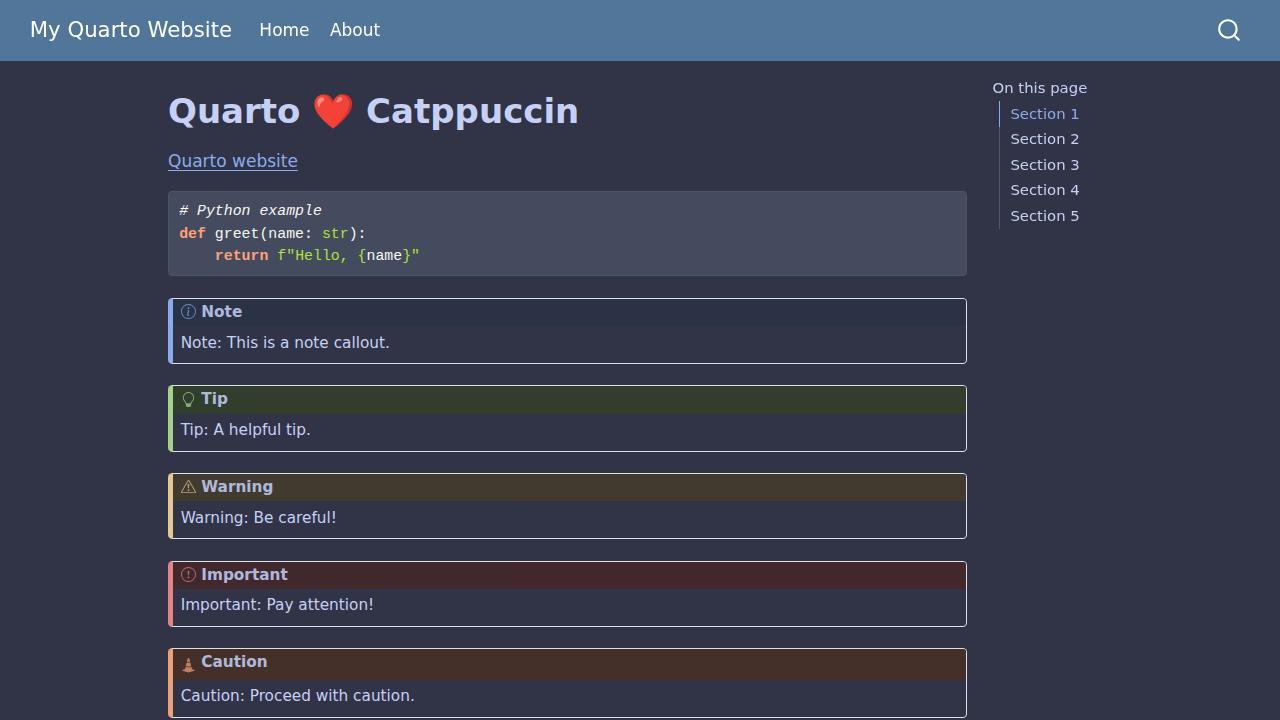
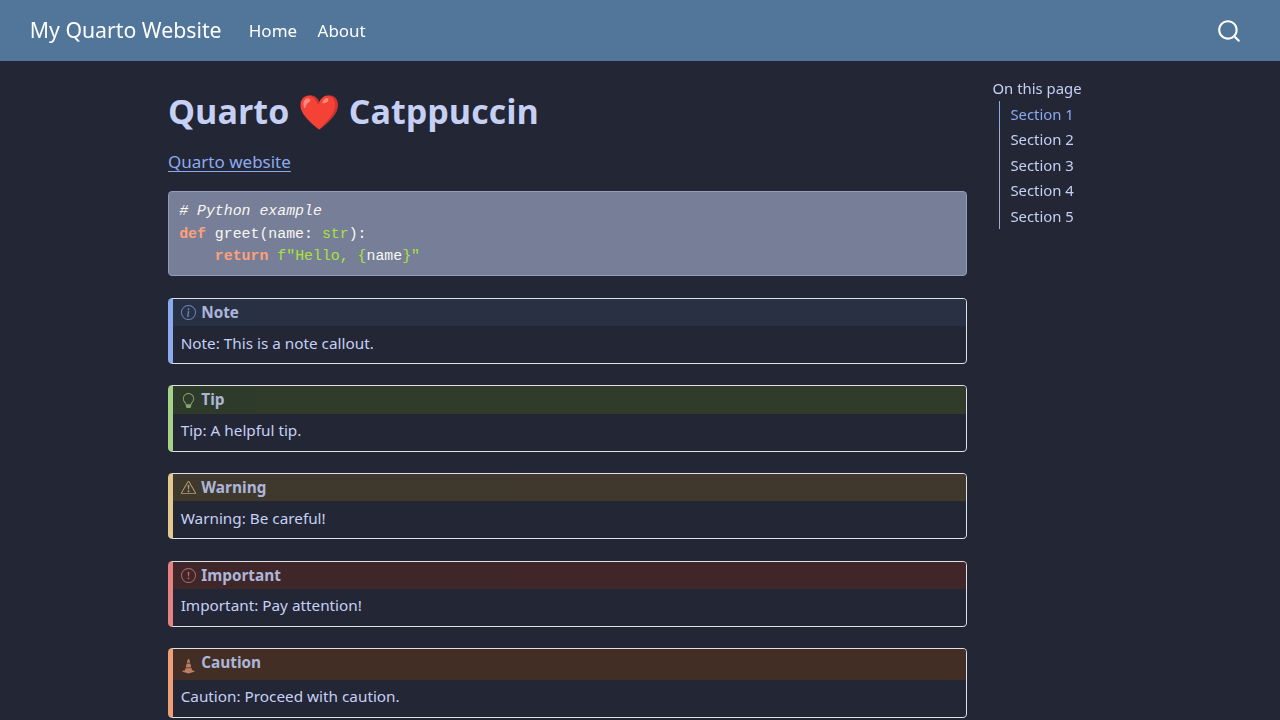
correct greyscale

diff --git a/themes/catppuccin-frappe.scss b/themes/catppuccin-frappe.scss
@@ -2,25 +2,28 @@
 /*-- scss:defaults --*/
 
 /* Quarto base colors: https://quarto.org/docs/output-formats/html-themes.html#colors */
-$body-bg:    #303446;
+
+$body-bg:    #232634;
 $body-color: #c6d0f5;
 $link-color: #8caaee;
 $input-bg:   #51576d;
 $popover-bg: #51576d;
 
 /* Bootstrap gray scale https://github.com/twbs/bootstrap/blob/c82919e8970c7ebebb87ded191b815c76737cd04/scss/_variables.scss#L10-L18 */
-$gray-100: #414559;
-$gray-200: #51576d;
-$gray-300: #626880;
-$gray-400: #737994;
-$gray-500: #838ba7;
-$gray-600: #949cbb;
-$gray-700: #a5adce;
-$gray-800: #b5bfe2;
-$gray-900: #c6d0f5;
+
+$gray-100: #b5bfe2;
+$gray-200: #a5adce;
+$gray-300: #949cbb;
+$gray-400: #838ba7;
+$gray-500: #737994;
+$gray-600: #626880;
+$gray-700: #51576d;
+$gray-800: #414559;
+$gray-900: #303446;
 
 
 /* Bootstrap base colors: https://github.com/twbs/bootstrap/blob/c82919e8970c7ebebb87ded191b815c76737cd04/scss/_variables.scss#L39-L48*/
+
 $blue:    #8caaee;
 $indigo:  #babbf1;
 $purple:  #ca9ee6;

diff --git a/themes/catppuccin-latte.scss b/themes/catppuccin-latte.scss
@@ -2,25 +2,28 @@
 /*-- scss:defaults --*/
 
 /* Quarto base colors: https://quarto.org/docs/output-formats/html-themes.html#colors */
-$body-bg:    #eff1f5;
+
+$body-bg:    #dce0e8;
 $body-color: #4c4f69;
 $link-color: #1e66f5;
 $input-bg:   #bcc0cc;
 $popover-bg: #bcc0cc;
 
 /* Bootstrap gray scale https://github.com/twbs/bootstrap/blob/c82919e8970c7ebebb87ded191b815c76737cd04/scss/_variables.scss#L10-L18 */
-$gray-100: #ccd0da;
-$gray-200: #bcc0cc;
-$gray-300: #acb0be;
-$gray-400: #9ca0b0;
-$gray-500: #8c8fa1;
-$gray-600: #7c7f93;
-$gray-700: #6c6f85;
-$gray-800: #5c5f77;
-$gray-900: #4c4f69;
+
+$gray-900: #5c5f77;
+$gray-800: #6c6f85;
+$gray-700: #7c7f93;
+$gray-600: #8c8fa1;
+$gray-500: #9ca0b0;
+$gray-400: #acb0be;
+$gray-300: #bcc0cc;
+$gray-200: #ccd0da;
+$gray-100: #eff1f5;
 
 
 /* Bootstrap base colors: https://github.com/twbs/bootstrap/blob/c82919e8970c7ebebb87ded191b815c76737cd04/scss/_variables.scss#L39-L48*/
+
 $blue:    #1e66f5;
 $indigo:  #7287fd;
 $purple:  #8839ef;

diff --git a/themes/catppuccin-macchiato.scss b/themes/catppuccin-macchiato.scss
@@ -2,25 +2,28 @@
 /*-- scss:defaults --*/
 
 /* Quarto base colors: https://quarto.org/docs/output-formats/html-themes.html#colors */
-$body-bg:    #24273a;
+
+$body-bg:    #181926;
 $body-color: #cad3f5;
 $link-color: #8aadf4;
 $input-bg:   #494d64;
 $popover-bg: #494d64;
 
 /* Bootstrap gray scale https://github.com/twbs/bootstrap/blob/c82919e8970c7ebebb87ded191b815c76737cd04/scss/_variables.scss#L10-L18 */
-$gray-100: #363a4f;
-$gray-200: #494d64;
-$gray-300: #5b6078;
-$gray-400: #6e738d;
-$gray-500: #8087a2;
-$gray-600: #939ab7;
-$gray-700: #a5adcb;
-$gray-800: #b8c0e0;
-$gray-900: #cad3f5;
+
+$gray-100: #b8c0e0;
+$gray-200: #a5adcb;
+$gray-300: #939ab7;
+$gray-400: #8087a2;
+$gray-500: #6e738d;
+$gray-600: #5b6078;
+$gray-700: #494d64;
+$gray-800: #363a4f;
+$gray-900: #24273a;
 
 
 /* Bootstrap base colors: https://github.com/twbs/bootstrap/blob/c82919e8970c7ebebb87ded191b815c76737cd04/scss/_variables.scss#L39-L48*/
+
 $blue:    #8aadf4;
 $indigo:  #b7bdf8;
 $purple:  #c6a0f6;

diff --git a/themes/catppuccin-mocha.scss b/themes/catppuccin-mocha.scss
@@ -2,25 +2,28 @@
 /*-- scss:defaults --*/
 
 /* Quarto base colors: https://quarto.org/docs/output-formats/html-themes.html#colors */
-$body-bg:    #1e1e2e;
+
+$body-bg:    #11111b;
 $body-color: #cdd6f4;
 $link-color: #89b4fa;
 $input-bg:   #45475a;
 $popover-bg: #45475a;
 
 /* Bootstrap gray scale https://github.com/twbs/bootstrap/blob/c82919e8970c7ebebb87ded191b815c76737cd04/scss/_variables.scss#L10-L18 */
-$gray-100: #313244;
-$gray-200: #45475a;
-$gray-300: #585b70;
-$gray-400: #6c7086;
-$gray-500: #7f849c;
-$gray-600: #9399b2;
-$gray-700: #a6adc8;
-$gray-800: #bac2de;
-$gray-900: #cdd6f4;
+
+$gray-100: #bac2de;
+$gray-200: #a6adc8;
+$gray-300: #9399b2;
+$gray-400: #7f849c;
+$gray-500: #6c7086;
+$gray-600: #585b70;
+$gray-700: #45475a;
+$gray-800: #313244;
+$gray-900: #1e1e2e;
 
 
 /* Bootstrap base colors: https://github.com/twbs/bootstrap/blob/c82919e8970c7ebebb87ded191b815c76737cd04/scss/_variables.scss#L39-L48*/
+
 $blue:    #89b4fa;
 $indigo:  #b4befe;
 $purple:  #cba6f7;
